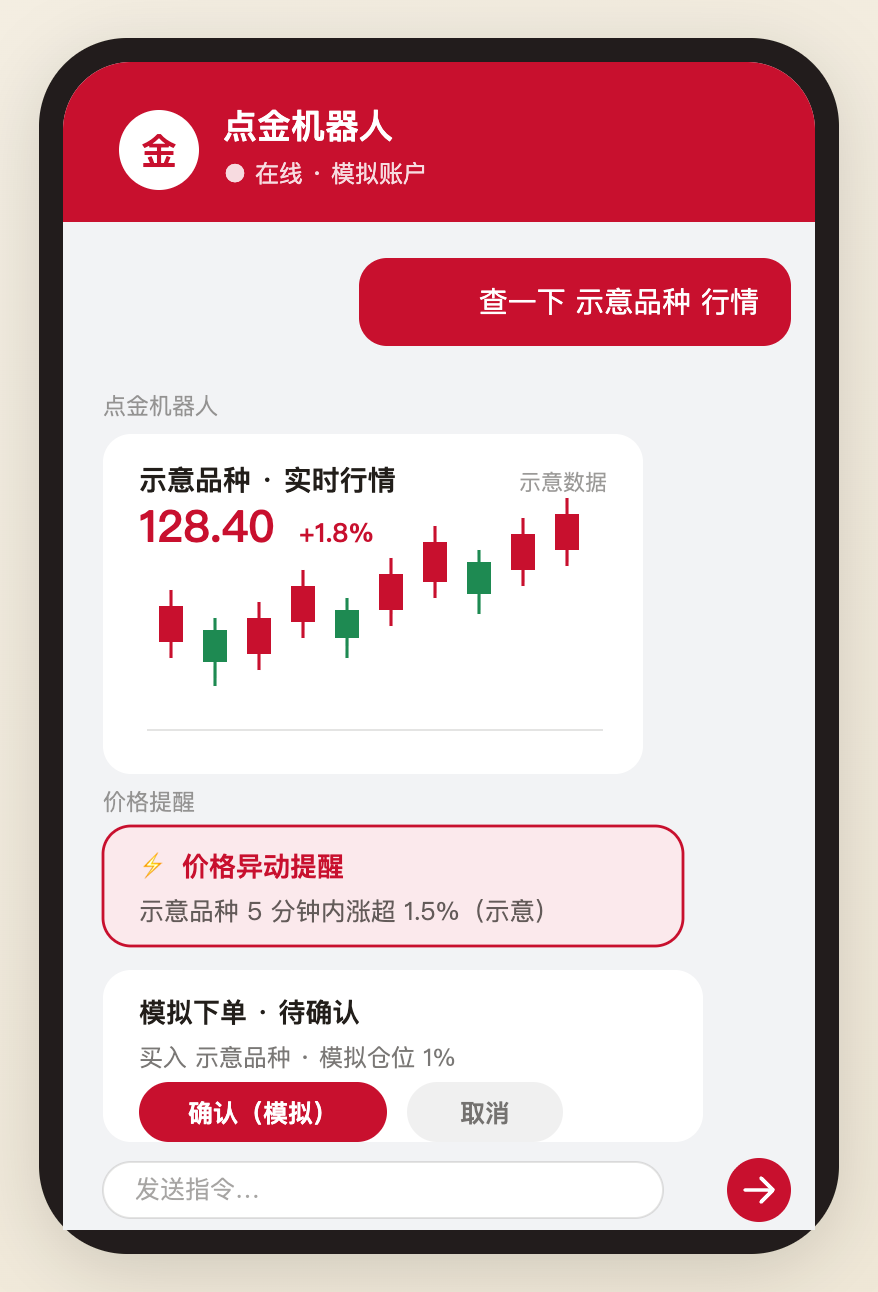
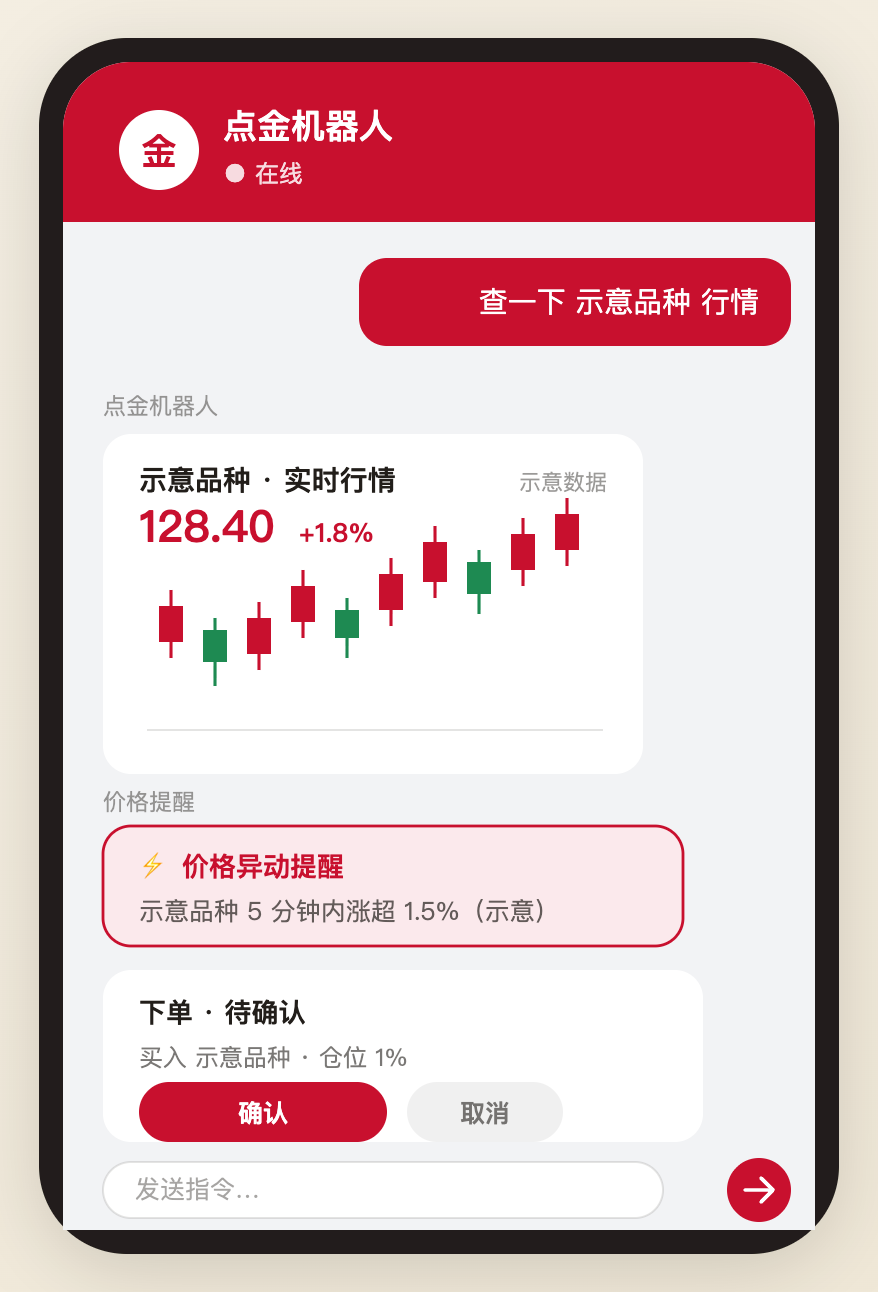
feat(landing): 机器人区块换 (2) 版手机图 + 文案"点金/模拟"→"交易"
按产品负责人最新定稿调整官网「Telegram / 飞书机器人」区块(纯前端 · 不碰后端/DB):
1. 手机图:替换为设计稿 (2) 版裁出的纯手机 mockup(在线 / 下单·待确认 确认·取消 · 无"模拟"字样,
   与新"交易"文案一致;原 (1) 版手机是"模拟下单·待确认"会与新文案冲突)· PIL 自动探测黑框裁剪 ·
   878×1292 同尺寸(组件 width/height 不变)。
2. 标题:"… · 把点金装进你的聊天软件" → "… · 把交易装进你的聊天软件"。
3. 功能第 4 条:"⚡ 模拟下单:支持二次确认" → "⚡ 交易下单:支持二次确认"。
   (★保留第 2 条"看 K 线图(Telegram)"标注不动;其余 5 条不动;仍不放底部声明小字。)
4. 同步 alt 文案 + 组件头注释(原"模拟下单"红线注记 → 标注 2026-06 产品负责人改"交易下单")。

自验(真实退出码):type-check ✅ · lint ✅ · vitest ✅(114) · build ✅。★build 后清 .next 再起 dev。
本地 dev 真机:① 标题"把交易装进"、第4条"交易下单:支持二次确认"、全块无"模拟下单"、(Telegram) 保留、
6 条齐 ② dev 服务 bot-remote.png 字节 = 新 (2) 裁版(131995·在线/下单待确认那版)· optimizer 200 ·
图内容经 Read 工具核验 ③ 零控制台错误。(preview headless 截图今日持续空白=已知渲染器怪癖,故以
DOM eval + 字节比对为权威。)

红线:零 [id]、不新增路由;只动官网首页组件 + 一张 ASCII 名图;不碰后端/DB/其他页。
说明:本区块按产品负责人定稿用"交易"措辞、不放声明;官网整体的"仅供模拟交易,不构成投资建议"
统一声明仍在会员区(Membership)保留。

Changed region(s): [[0.1538, 0.774, 0.5228, 0.8359], [0.2153, 0.8359, 0.369, 0.8669], [0.369, 0.1238, 0.492, 0.1548]]

diff --git a/apps/web/components/landing/bot-remote.tsx b/apps/web/components/landing/bot-remote.tsx
@@ -1,9 +1,9 @@
 /**
- * 官网区块 · Telegram / 飞书机器人(把点金装进聊天软件)。
+ * 官网区块 · Telegram / 飞书机器人(把交易装进聊天软件)。
  *
  * 版式照 components/landing/research-lab.tsx:section max-w-6xl + lg:grid-cols-2(文左·图右)+
  * 同款 eyebrow(text-gold tracking)/ 衬线标题 / 正文 token。
- * ★文案为产品负责人逐字定稿,不可改:① "模拟下单" 四字(非"下单"/"虚拟下单")· ②"看 K 线图(Telegram)"
+ * ★文案为产品负责人逐字定稿,不可改:① "交易下单"(2026-06 产品负责人改定 · 原"模拟下单")· ②"看 K 线图(Telegram)"
  *   保留 (Telegram) 标注(飞书端无 K 线图,写上即失真)· ③ 其余 5 条 TG/飞书通用不做两端区分 ·
  *   ④ 本区块不放任何底部声明小字。
  * 配图:public/marketing/bot-remote.png(纯手机 mockup · 从 Design 合成稿裁出右侧手机 · 878×1292)。
@@ -17,7 +17,7 @@ const FEATURES = [
   { icon: '📊', text: '查行情:四市场(加密 / 美股 / A股 / 港股),字母代码、数字代码、中文名都能认' },
   { icon: '📈', text: '看 K 线图(Telegram)' },
   { icon: '💼', text: '查自选、查持仓(现货 + 永续)' },
-  { icon: '⚡', text: '模拟下单:支持二次确认' },
+  { icon: '⚡', text: '交易下单:支持二次确认' },
   { icon: '🔔', text: '实时推送:成交、价格异动(±5%)、告警触发、强平提醒' },
   { icon: '🔕', text: '告警规则启停、安静时段设置' },
 ]
@@ -33,7 +33,7 @@ export function BotRemote() {
             点金 MIDAS · 远程控制
           </p>
           <h2 className="font-serif text-3xl font-bold leading-snug lg:text-4xl">
-            Telegram / 飞书机器人 · 把点金装进你的聊天软件
+            Telegram / 飞书机器人 · 把交易装进你的聊天软件
           </h2>
           <p className="mt-4 text-sm leading-relaxed text-muted-foreground lg:text-base">
             绑定后,在 Telegram 或飞书里就能远程查行情、看持仓、下单,并实时收到成交与预警推送——不用一直盯着网页。
@@ -54,7 +54,7 @@ export function BotRemote() {
         <div className="flex justify-center lg:justify-end">
           <Image
             src="/marketing/bot-remote.png"
-            alt="点金机器人:在聊天软件里查行情、收推送、确认模拟下单"
+            alt="点金机器人:在聊天软件里查行情、收推送、确认交易下单"
             width={878}
             height={1292}
             className="h-auto w-full max-w-[300px]"
